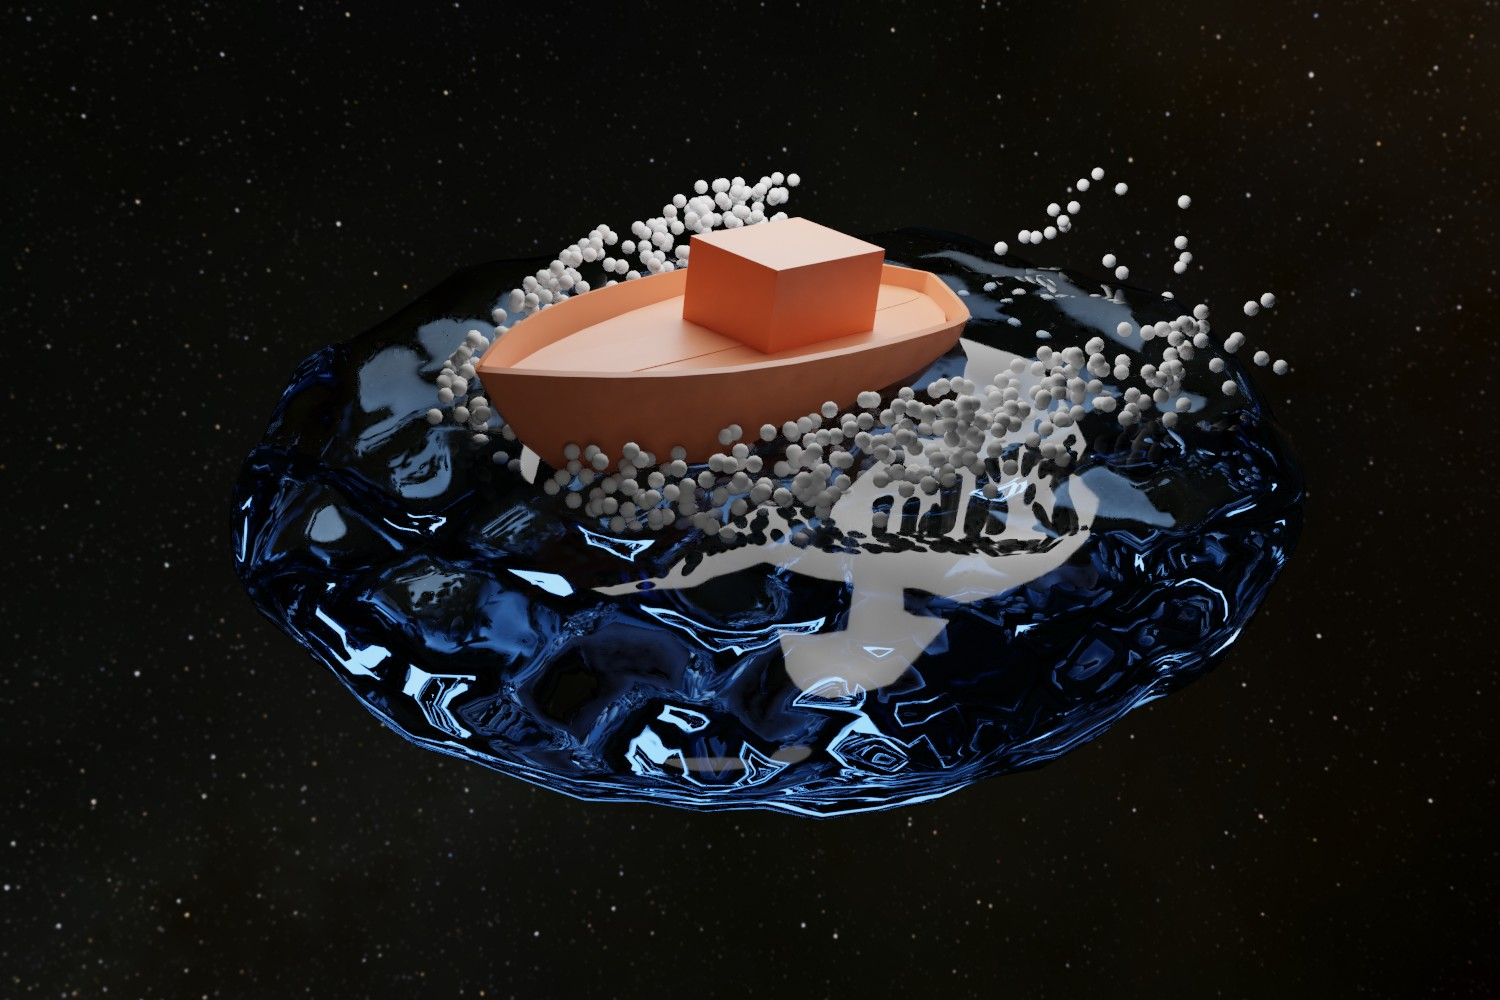
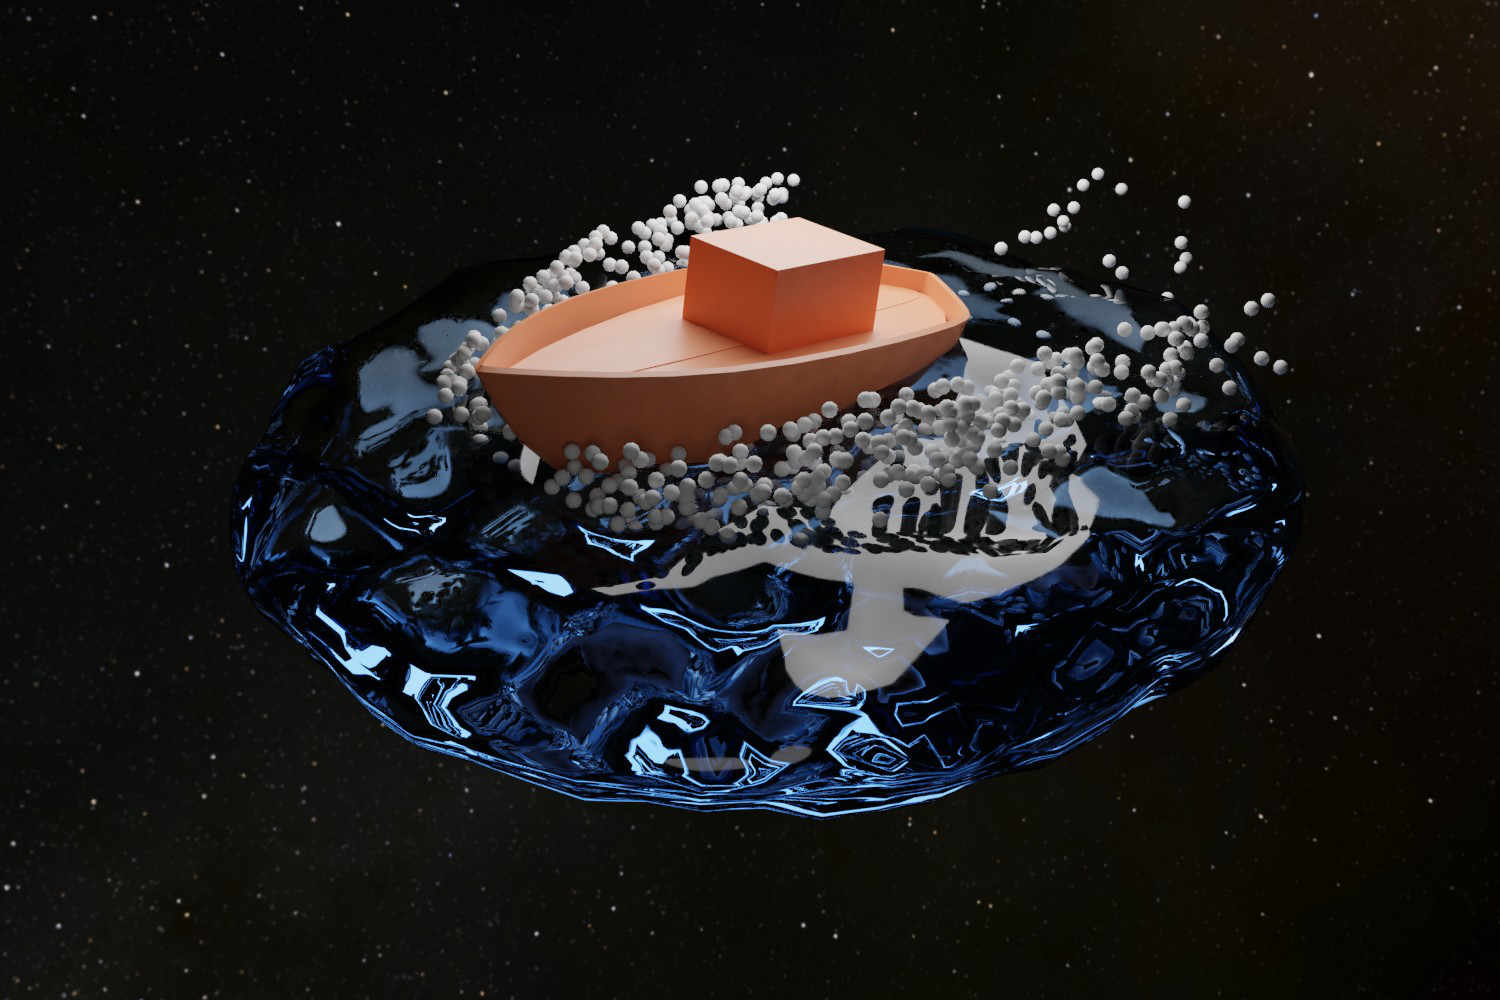
low res image

diff --git a/Pages/model.html b/Pages/model.html
@@ -64,13 +64,13 @@
             <div class="row">
                 <div class="col-sm">
                     <figure>
-                        <img src="../img/Models/AncientRuneDenoise.png" alt="My Photo">
+                        <img src="../img/Models/AncientRuneDenoise.jpg" alt="My Photo">
                         <figcaption>Low Poly Ancient Rune</figcaption>
                     </figure>
                 </div>
                 <div class="col-sm">
                     <figure>
-                        <img src="../img/Models/BMO.png" alt="My Photo">
+                        <img src="../img/Models/BMO.jpg" alt="My Photo">
                         <figcaption>BMO from Adventure Times</figcaption>
                     </figure>
                 </div>
@@ -89,7 +89,7 @@
                 </div>
                 <div class="col-sm">
                     <figure>
-                        <img src="../img/Models/fluidsss.png" alt="My Photo">
+                        <img src="../img/Models/fluidsss.jpg" alt="My Photo">
                         <figcaption>Fluid Sim</figcaption>
                     </figure>
                 </div>
@@ -102,13 +102,13 @@
             <div class="row">
                 <div class="col-sm">
                     <figure>
-                        <img src="../img//Models/gen.png" alt="My Photo">
+                        <img src="../img//Models/gen.jpg" alt="My Photo">
                         <figcaption>Generative modelling</figcaption>
                     </figure>
                 </div>
                 <div class="col-sm">
                     <figure>
-                        <img src="../img/Models/luxo.png" alt="My Photo">
+                        <img src="../img/Models/luxo.jpg" alt="My Photo">
                         <figcaption>Luxo from Pixar</figcaption>
                     </figure>
                 </div>
